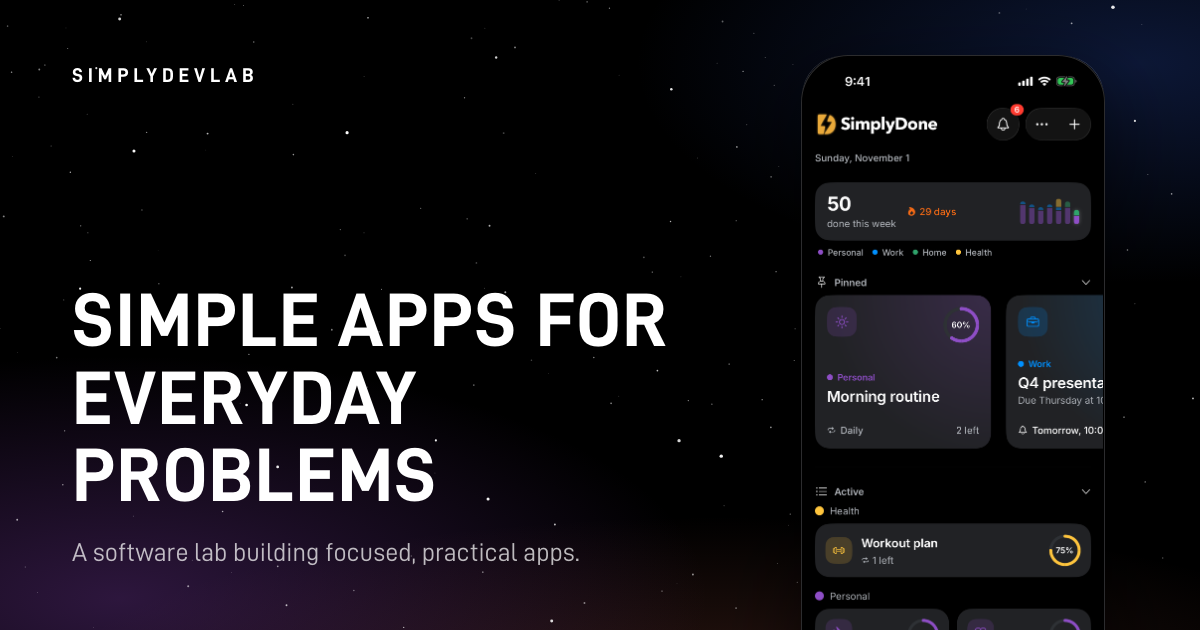
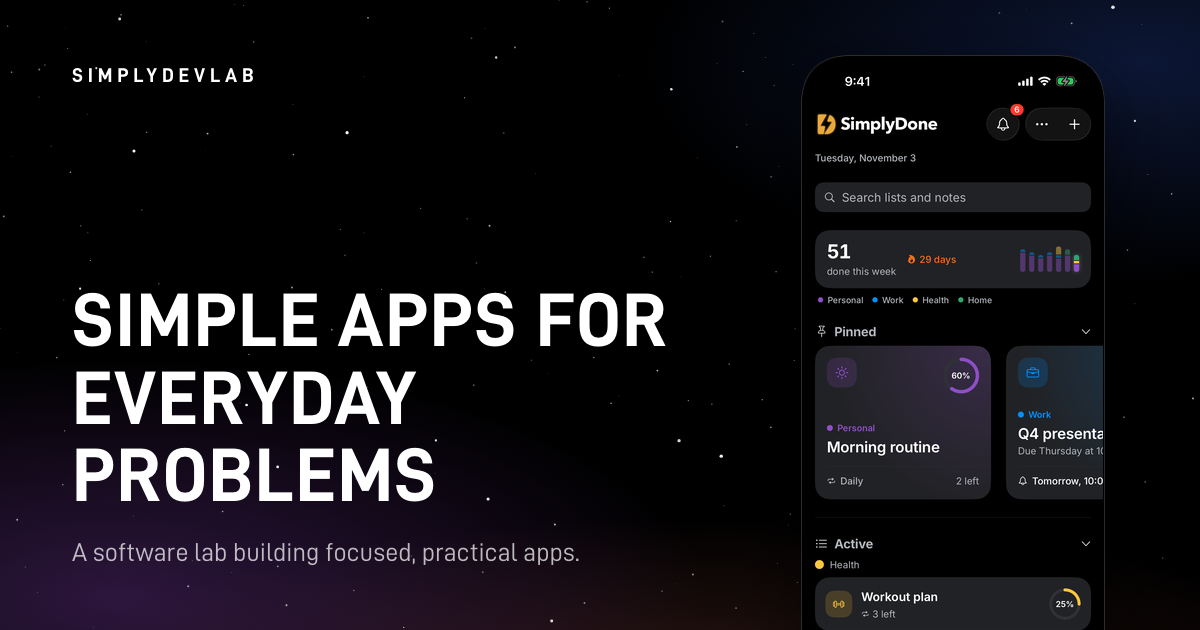
chore: SimplyDone card matches 2.1.0
- Status line says SimplyDone 2.1 is out now, with notes
- Card text and schema description add notes
- App preview and the social share image show the 2.1 main screen, with its search field
- Screenshot alt text mentions the search field

diff --git a/src/pages/index.tsx b/src/pages/index.tsx
@@ -40,7 +40,7 @@ const STRUCTURED_DATA = {
     {
       '@type': 'SoftwareApplication',
       name: 'SimplyDone',
-      description: 'Lists, tasks, reminders and routines, kept simple.',
+      description: 'Lists, tasks, notes, reminders and routines, kept simple.',
       applicationCategory: 'ProductivityApplication',
       operatingSystem: 'iOS, iPadOS',
       url: SIMPLYDONE_SITE_URL,
@@ -65,7 +65,7 @@ export default function IndexPage() {
             <h1>Simple apps for everyday problems</h1>
             <p className="lead">A software lab building focused, practical apps.</p>
             <a className="status" href="#apps">
-              SimplyDone 2.0 is out now on the App Store
+              SimplyDone 2.1 is out now, with notes
             </a>
           </section>
 
@@ -81,7 +81,7 @@ export default function IndexPage() {
                   <p className="role">ToDo &amp; Tasks</p>
                 </div>
               </div>
-              <p>Lists, tasks, reminders and routines, kept simple.</p>
+              <p>Lists, tasks, notes, reminders and routines, kept simple.</p>
               <p className="app-meta">Free · iPhone and iPad · Remove ads with a one-time purchase</p>
               <div className="actions">
                 <a className="button button-solid" href={SIMPLYDONE_APP_STORE_URL}>
@@ -95,7 +95,7 @@ export default function IndexPage() {
             <div className="phone">
               <img
                 src={simplyDoneScreenshot}
-                alt="SimplyDone's main screen in dark mode, with this week's tasks done by group and the streak above pinned and active lists as tiles"
+                alt="SimplyDone's main screen in dark mode: a search field, then this week's tasks done by group and the streak above pinned and active lists as tiles"
                 width={660}
                 height={1435}
                 loading="lazy"
